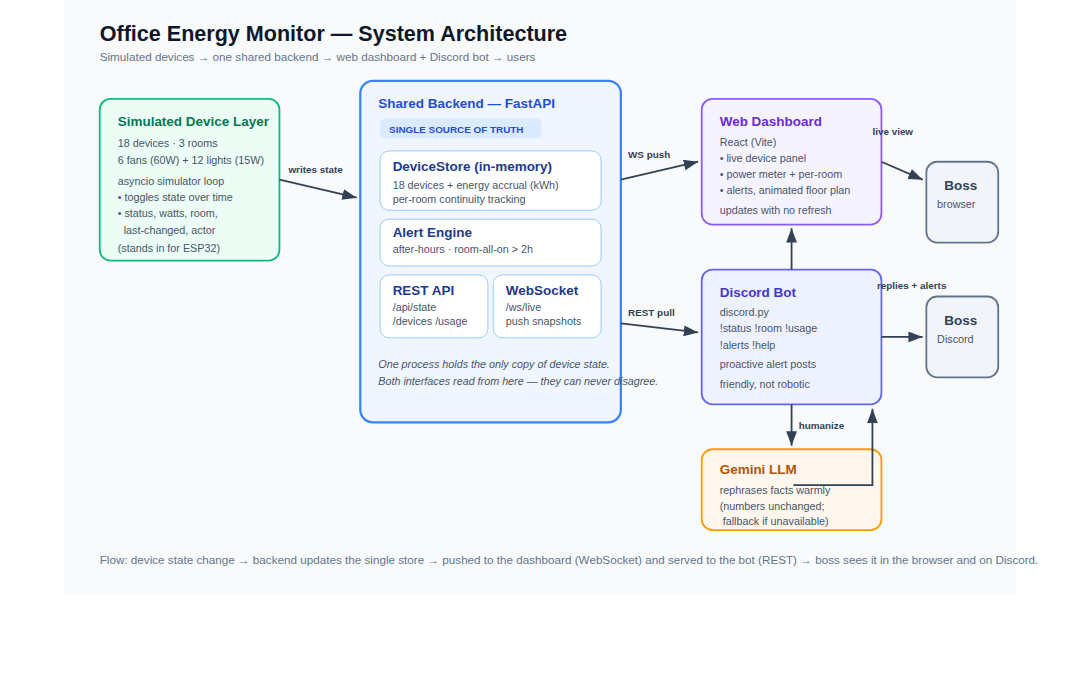
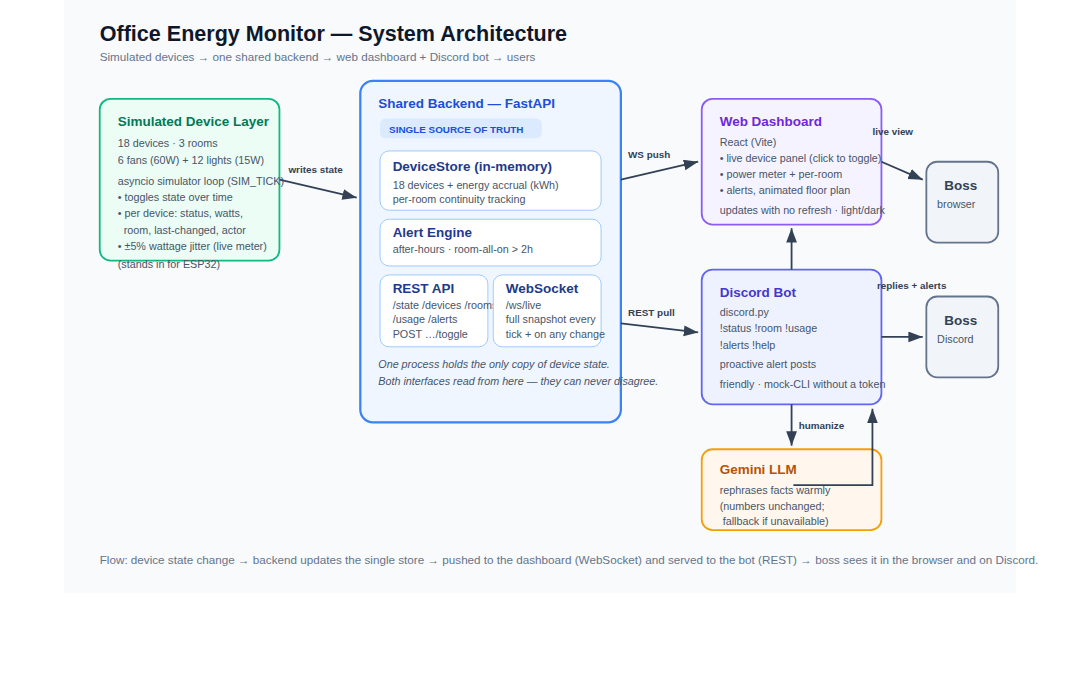
Add circuit wiring diagram + one-command launcher; enrich system diagram & docs
- diagrams/circuit-wiring-diagram.svg/.png: visual ESP32 state+current sensing
- run.sh: start backend + dashboard + bot together
- system diagram now shows jitter, toggle endpoint, mock-CLI, light/dark
- README: run.sh quick start, mock-CLI, toggle API, jitter notes

diff --git a/README.md b/README.md
@@ -106,7 +106,13 @@ The bot never keeps its own state — it always asks the backend, which is what 
 
 **Prerequisites:** Python 3.10+, Node 18+, and (optional) a Discord bot token + Gemini API key.
 
-Run the three parts in **three terminals**. The backend must be up first.
+**Quick start (one command).** After the one-time setup in §5.1–5.3 (venvs + `npm install`), you can launch all three services together:
+
+```bash
+./run.sh      # starts backend + dashboard + bot; Ctrl-C stops all
+```
+
+Or run the three parts in **three terminals** (backend must be up first):
 
 ### 5.1 Backend (start this first)
 
@@ -143,6 +149,11 @@ cp .env.example .env             # fill in DISCORD_TOKEN, ALERT_CHANNEL_ID, GEMI
 python bot.py
 ```
 
+**No Discord token? Test the bot instantly.** If `DISCORD_TOKEN` is unset, `python bot.py`
+starts a **local mock CLI** running the *exact same command handlers* the Discord bot uses —
+type `!status`, `!room work1`, `!usage`, `!alerts` right in the terminal, and proactive
+alerts print there too. Add a token later and the identical logic runs in real Discord.
+
 **Creating the Discord bot:** in the [Discord Developer Portal](https://discord.com/developers/applications)
 create an application → **Bot** → copy the token → enable **Message Content Intent** →
 invite it to your server with the *Send Messages* + *Read Message History* permissions.
@@ -165,7 +176,8 @@ into `ALERT_CHANNEL_ID`.
 | GET | `/api/rooms/{room}` | One room (`drawing`, `work1`, `work2`) |
 | GET | `/api/usage` | Total watts, per-room watts, today's kWh |
 | GET | `/api/alerts` | Active alerts |
-| WS | `/ws/live` | Pushes a full snapshot every simulator tick |
+| POST | `/api/devices/{id}/toggle` | Manually flip one device (dashboard click) — broadcast to all clients |
+| WS | `/ws/live` | Pushes a full snapshot every simulator tick and on any change |
 
 ## 7. Discord bot commands
 
@@ -199,8 +211,12 @@ Each device carries: `status` (on/off), `watts` (fan 60 W, light 15 W), `room`,
 `last_changed` timestamp, and `last_changed_by`. The simulator:
 
 - flips devices toward a **time-of-day occupancy** (busy 9–5, winding down after),
+- **jitters each ON device's wattage ±5%** every tick so the meter reads like a live
+  current sensor rather than a constant (`WATT_JITTER_PCT`, set to 0 for exact values),
 - **accrues energy** (`Wh += total_watts × Δt`) for today's kWh, resetting at sim-midnight,
 - tracks **per-room continuous-on** time for the 2-hour alert.
+
+The dashboard is also **interactive** — click any device to toggle it (`POST /api/devices/{id}/toggle`); the change broadcasts to every client and the bot at once.
 
 Per the brief, the only human names used anywhere are the two provided dummy actors,
 **Nafisa Rahman** and **Tanvir Hossain** (shown as "last changed by"). No other names are invented.
@@ -218,8 +234,11 @@ Alerts are timestamped, shown live on the dashboard, and pushed to Discord.
 
 A representative one-room ESP32 schematic (state sensing + current sensing) with full
 pin-mapping tables, connection list, and electrical reasoning is in
-[`diagrams/circuit-guide.md`](diagrams/circuit-guide.md). Build it in Wokwi and add the
-screenshot + share link there.
+[`diagrams/circuit-guide.md`](diagrams/circuit-guide.md), with a companion visual wiring
+diagram in [`diagrams/circuit-wiring-diagram.svg`](diagrams/circuit-wiring-diagram.svg).
+Build it in Wokwi and add the screenshot + share link there.
+
+![Circuit wiring diagram](diagrams/circuit-wiring-diagram.png)
 
 ## 12. Running the tests
 